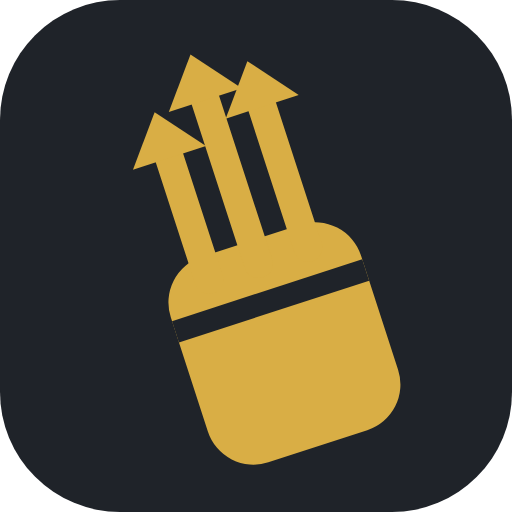
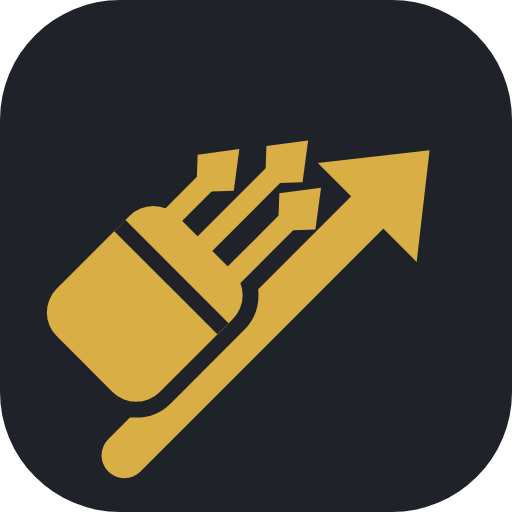
style(brand): quiver with three arrows and a rising trend arrow
Redraw the mark after a reference: a tilted quiver with three arrows,
and a single trend arrow rising up-right from behind it. Everything is a
flat, single-colour silhouette — no refresh glyph or hatching from the
reference — so it holds at small sizes. A background-colour outline
separates the quiver body from the trend shaft; fletchings are simple
kites since detailed feathers turned to mush below 48px. Gold on
charcoal as before; the 512px avatar is re-exported.

Changed region(s): [[0.0938, 0.0938, 0.8438, 0.9375]]

diff --git a/web/src/components/Logo.jsx b/web/src/components/Logo.jsx
@@ -1,24 +1,31 @@
-// Tanda Quiver: siluet wadah panah yang miring dengan tiga anak panah mencuat, emas di
-// lencana arang, dua warna solid. Garis tipis di badan = bibir wadah (ruang negatif).
-// Gambar yang sama dengan public/favicon.svg — kalau salah satu diubah, ubah keduanya.
-// Warna tetap (bukan currentColor) supaya konsisten di kedua tema.
+// Tanda Quiver: wadah panah miring dengan tiga anak panah, dan satu panah tren naik dari
+// belakangnya — siluet emas satu warna di lencana arang. Bentuk padat (bukan garis) supaya
+// tetap terbaca kecil; garis tipis di badan = bibir wadah (ruang negatif), dan pinggiran
+// warna latar memisahkan badan dari batang panah tren. Gambar yang sama dengan
+// public/favicon.svg — kalau salah satu diubah, ubah keduanya. Warna tetap (bukan
+// currentColor) supaya konsisten di kedua tema.
 export function QuiverMark({ className = 'size-7' }) {
   return (
     <svg viewBox="0 0 64 64" className={className} aria-hidden="true">
       <rect width="64" height="64" rx="15" fill="#1F2329" />
-      <g transform="rotate(-18 32 32)">
-        <rect x="19.5" y="30" width="25" height="27" rx="6" fill="#D9AE45" />
-        <rect x="19.5" y="36.5" width="25" height="2.8" fill="#1F2329" />
-        <g stroke="#D9AE45" strokeWidth="3.6" strokeLinecap="round">
-          <path d="M25.5 33 L25.5 16" />
-          <path d="M32 33 L32 10.5" />
-          <path d="M38.5 33 L38.5 13.5" />
+      <g transform="translate(32 32) rotate(45) scale(0.76) translate(-29.375 -25.5)">
+        <path d="M37.25 64 L37.25 5.5" stroke="#D9AE45" strokeWidth="7.5" strokeLinecap="round" fill="none" />
+        <path d="M25.75 7.5 L37.25 -7 L48.75 7.5 Z" fill="#D9AE45" />
+        <g fill="#1F2329" stroke="#1F2329" strokeWidth="5.2" strokeLinejoin="round">
+          <rect x="10" y="30" width="24" height="28" rx="5.5" />
         </g>
         <g fill="#D9AE45">
-          <path d="M20.7 17 L25.5 11 L30.3 17 Z" />
-          <path d="M27.2 11.5 L32 5.5 L36.8 11.5 Z" />
-          <path d="M33.7 14.5 L38.5 8.5 L43.3 14.5 Z" />
+          <rect x="10" y="30" width="24" height="28" rx="5.5" />
+          <path d="M15 15 L10.8 20.5 L15 25 L19.2 20.5 Z" />
+          <path d="M22.0 6 L17.8 11.5 L22.0 16 L26.2 11.5 Z" />
+          <path d="M29 10 L24.8 15.5 L29 20 L33.2 15.5 Z" />
         </g>
+        <g stroke="#D9AE45" fill="none">
+          <path d="M15 33 L15 22" strokeWidth="3.4" strokeLinecap="round" />
+          <path d="M22.0 33 L22.0 13" strokeWidth="3.4" strokeLinecap="round" />
+          <path d="M29 33 L29 17" strokeWidth="3.4" strokeLinecap="round" />
+        </g>
+        <rect x="10" y="36.5" width="24" height="2.6" fill="#1F2329" />
       </g>
     </svg>
   );
